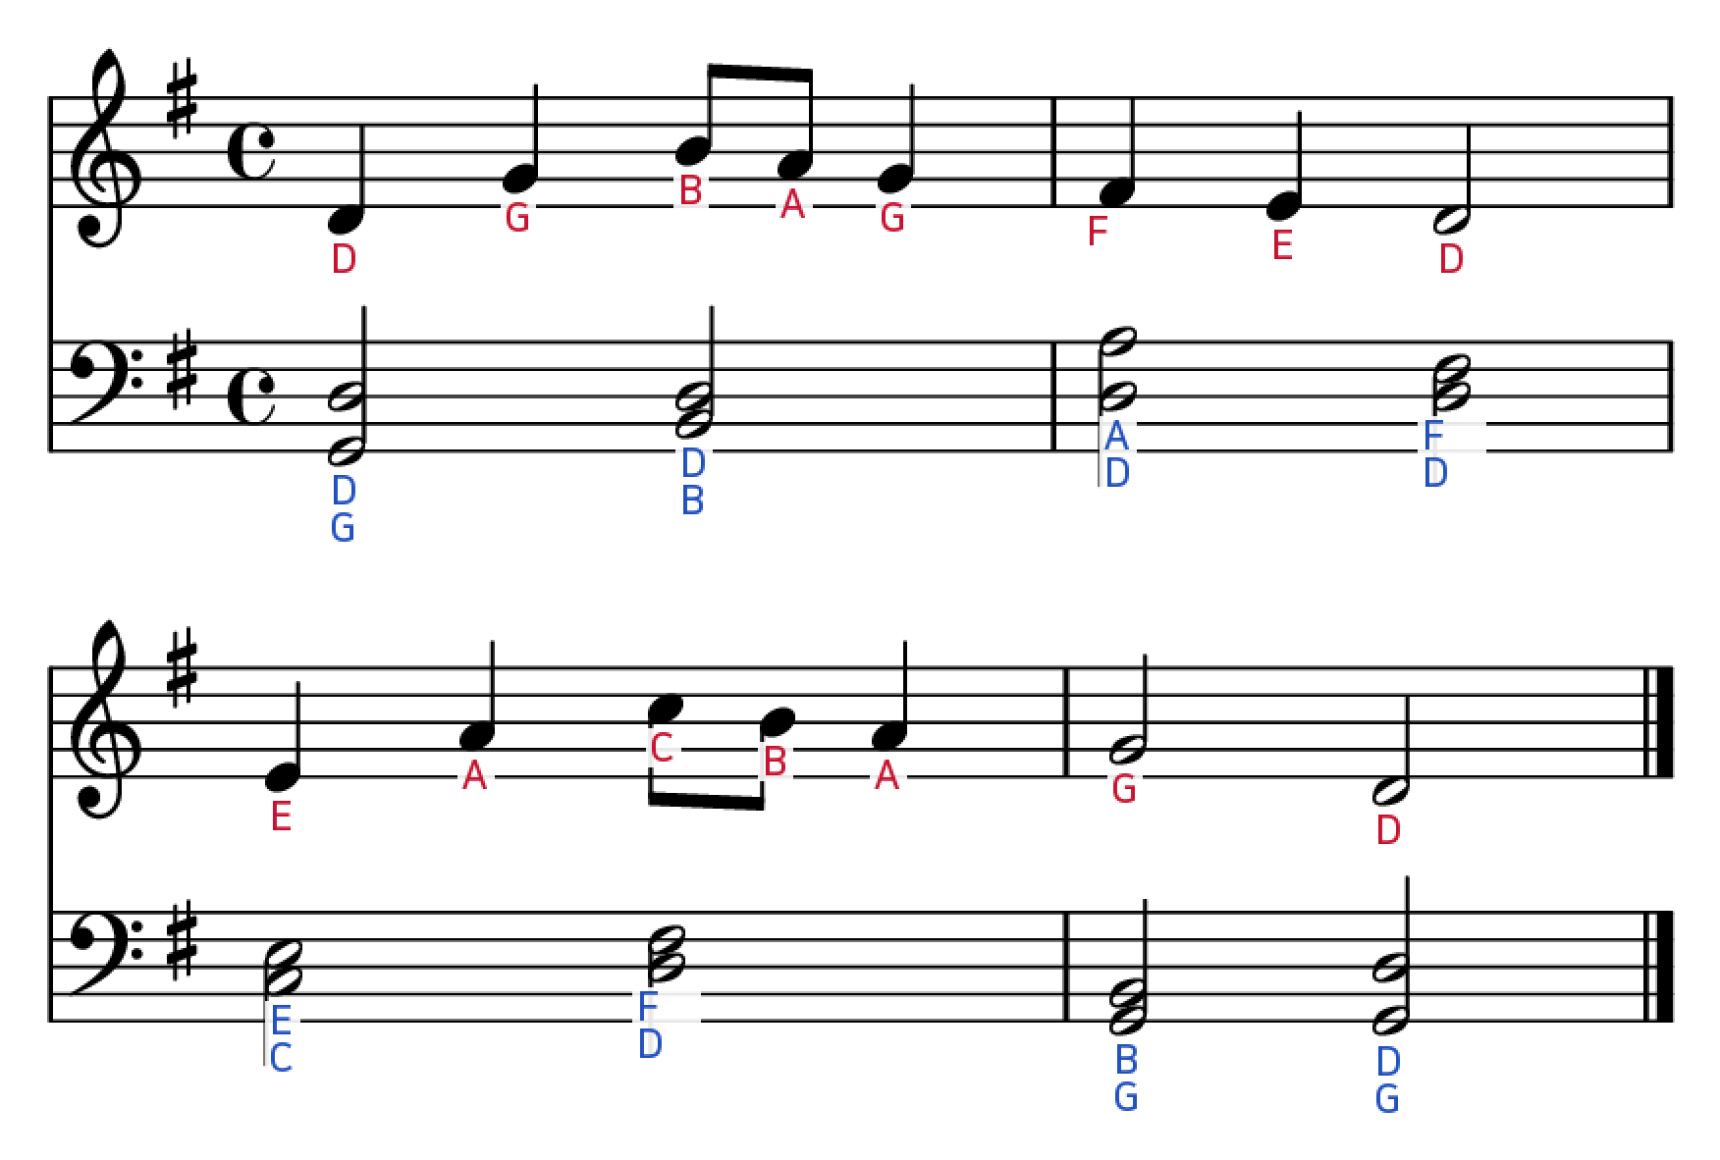
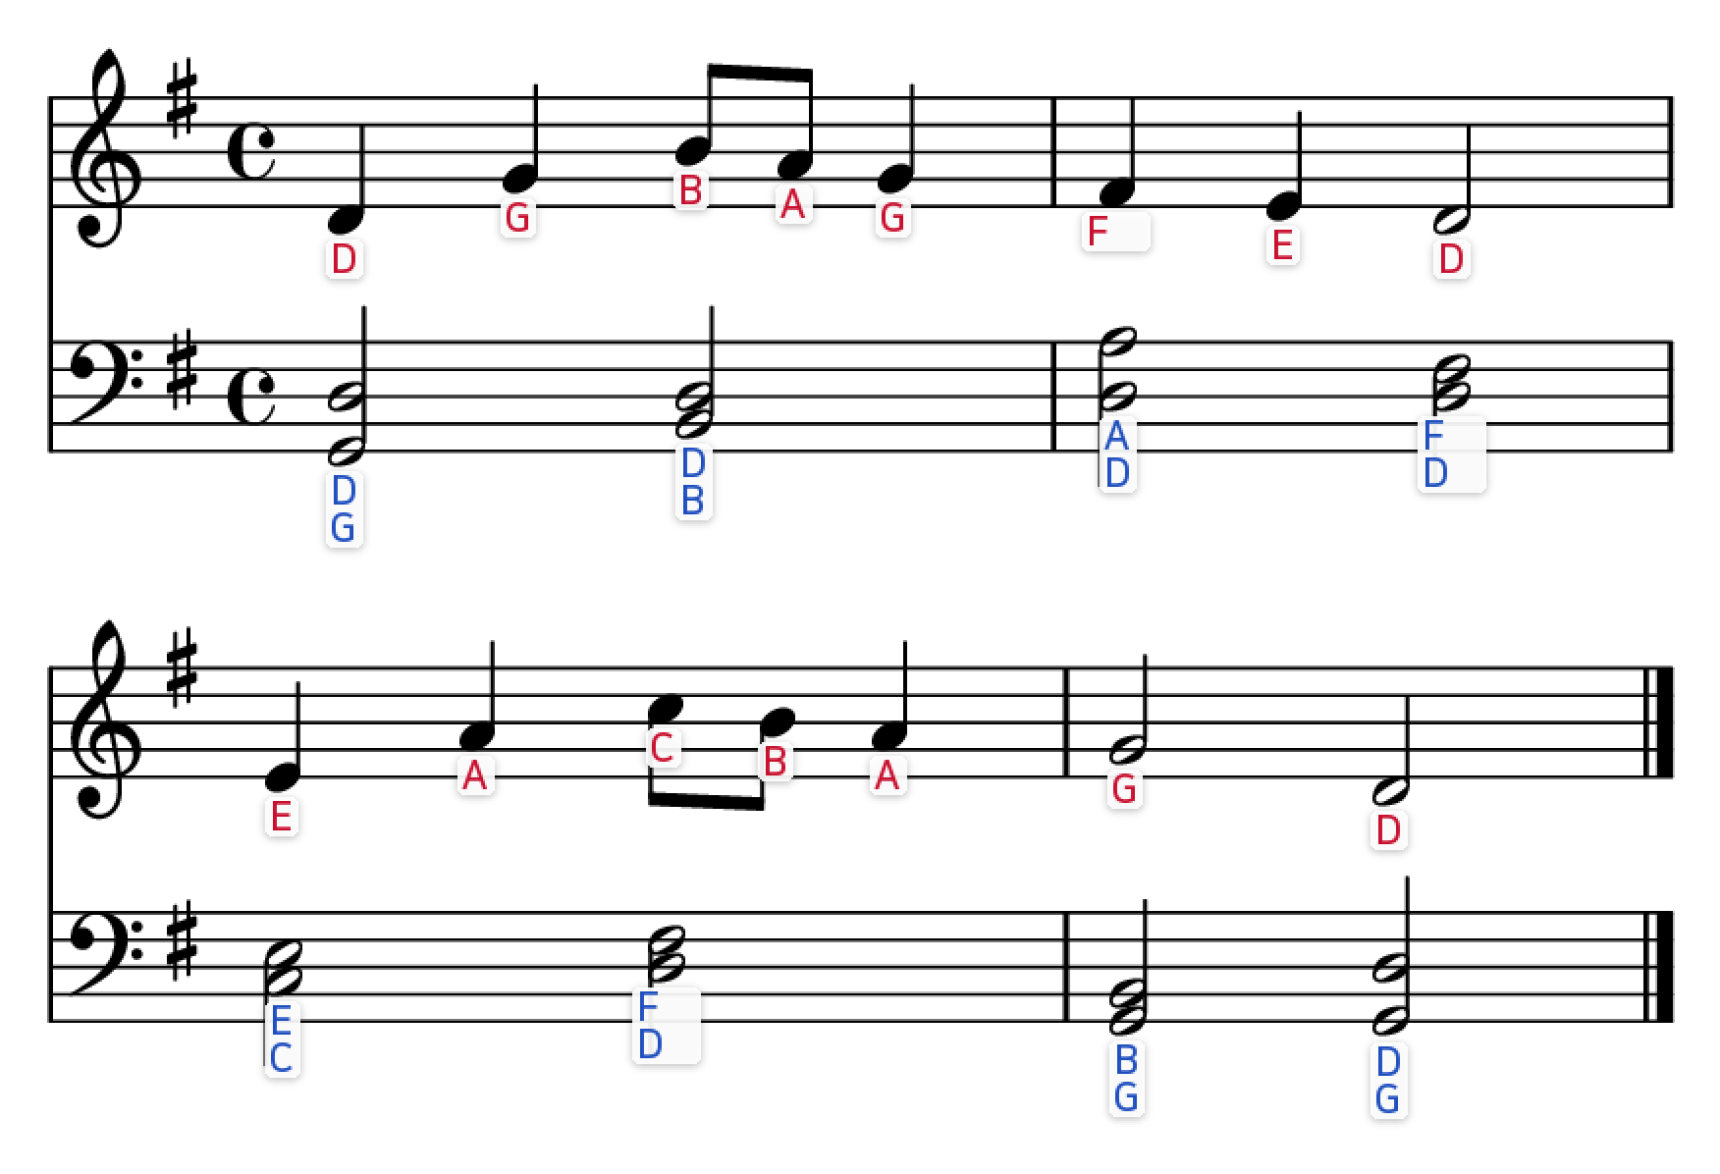
notalo: 라벨 박스 둥근 모서리 + 옅은 그림자로 다듬기
render.py overlay(): 흰 사각 배경 → rounded_rectangle(반경은 글자 크기 비례) + 아래로 살짝 번진
그림자(그림자 레이어만 블러, 글자는 선명하게 유지). 실제 변환 결과 전체에 적용됨(마케팅 이미지만이 아님).
페이지당 처리 시간 영향 미미(약 0.4s, 기존과 비슷한 수준).

히어로 이미지 4개(en/it/ja/de)도 같은 스타일로 다시 생성, index.html의 height 속성 갱신(1174).

미반영: static/demo/*.png(데모 섹션 10장)는 원본 소스 악보가 없어서 기존 스타일 그대로 남음 — 시각적으로
살짝 불일치. 필요하면 새 멜로디로 다시 만들 수 있음.

Claude-Session: https://claude.ai/code/session_01HpQczNgaKV9onMN6EwRPbj

diff --git a/notalo/static/index.html b/notalo/static/index.html
@@ -63,7 +63,7 @@ gtag('config', 'G-YKTS1ZLM3G');
     </div>
   </div>
   <figure>
-    <img id="hero-img" src="/hero/sample_en.png" alt="Piano sheet music with note names added in red (right hand) and blue (left hand)" width="1720" height="1160">
+    <img id="hero-img" src="/hero/sample_en.png" alt="Piano sheet music with note names added in red (right hand) and blue (left hand)" width="1720" height="1174">
     <figcaption data-i18n="hero.caption">Actual result. Right hand in red, left hand in blue.</figcaption>
   </figure>
 </section>

diff --git a/notalo/render.py b/notalo/render.py
@@ -1,8 +1,8 @@
-"""라벨 오버레이: 흰 배경박스(90% 불투명, 테두리 없음) + 색 글자."""
+"""라벨 오버레이: 둥근 흰 배경박스(옅은 그림자) + 색 글자."""
 import functools
 import os
 
-from PIL import Image, ImageDraw, ImageFont
+from PIL import Image, ImageDraw, ImageFilter, ImageFont
 
 RED, BLUE = (200, 16, 46), (31, 79, 191)  # 높은음자리 #C8102E / 낮은음자리 #1F4FBF
 PAD = 2
@@ -32,18 +32,27 @@ def text_size(text, size):
 
 
 def overlay(page_rgb, labels):
-    """labels: [{"x","y","text","clef","size"}] (x,y=박스 왼쪽 위) → PIL RGB 이미지."""
+    """labels: [{"x","y","text","clef","size"}] (x,y=박스 왼쪽 위) → PIL RGB 이미지.
+    박스는 둥근 모서리 + 아래로 옅게 번진 그림자(그림자 레이어만 블러 후 합성 — 텍스트는 선명하게 유지)."""
     img = Image.fromarray(page_rgb).convert("RGBA")
-    layer = Image.new("RGBA", img.size, (0, 0, 0, 0))
-    d = ImageDraw.Draw(layer)
+    shadow = Image.new("RGBA", img.size, (0, 0, 0, 0))
+    box = Image.new("RGBA", img.size, (0, 0, 0, 0))
+    ds, db = ImageDraw.Draw(shadow), ImageDraw.Draw(box)
+    boxes = []  # (rect, radius, dy, blur) 그림자 일괄 처리용
     for l in labels:
         assert {"x", "y", "text", "clef", "size"} <= l.keys(), l
         f = font(l["size"])
         w, h = text_size(l["text"], l["size"])
-        d.rectangle((l["x"], l["y"], l["x"] + w, l["y"] + h), fill=(255, 255, 255, 230))
+        r = max(3, round(l["size"] * 0.16))
+        rect = (l["x"], l["y"], l["x"] + w, l["y"] + h)
+        boxes.append((rect, r, max(1, round(l["size"] * 0.05))))
+        db.rounded_rectangle(rect, radius=r, fill=(255, 255, 255, 235))
         y = l["y"] + PAD
         for line in l["text"].split("\n"):
             b = f.getbbox(line)
-            d.text((l["x"] + PAD - b[0], y - b[1]), line, fill=RED if l["clef"] == "treble" else BLUE, font=f)
+            db.text((l["x"] + PAD - b[0], y - b[1]), line, fill=RED if l["clef"] == "treble" else BLUE, font=f)
             y += b[3] - b[1] + 2 * PAD
-    return Image.alpha_composite(img, layer).convert("RGB")
+    for (x0, y0, x1, y1), r, dy in boxes:
+        ds.rounded_rectangle((x0, y0 + dy, x1, y1 + dy), radius=r, fill=(20, 20, 20, 70))
+    shadow = shadow.filter(ImageFilter.GaussianBlur(2))
+    return Image.alpha_composite(Image.alpha_composite(img, shadow), box).convert("RGB")
